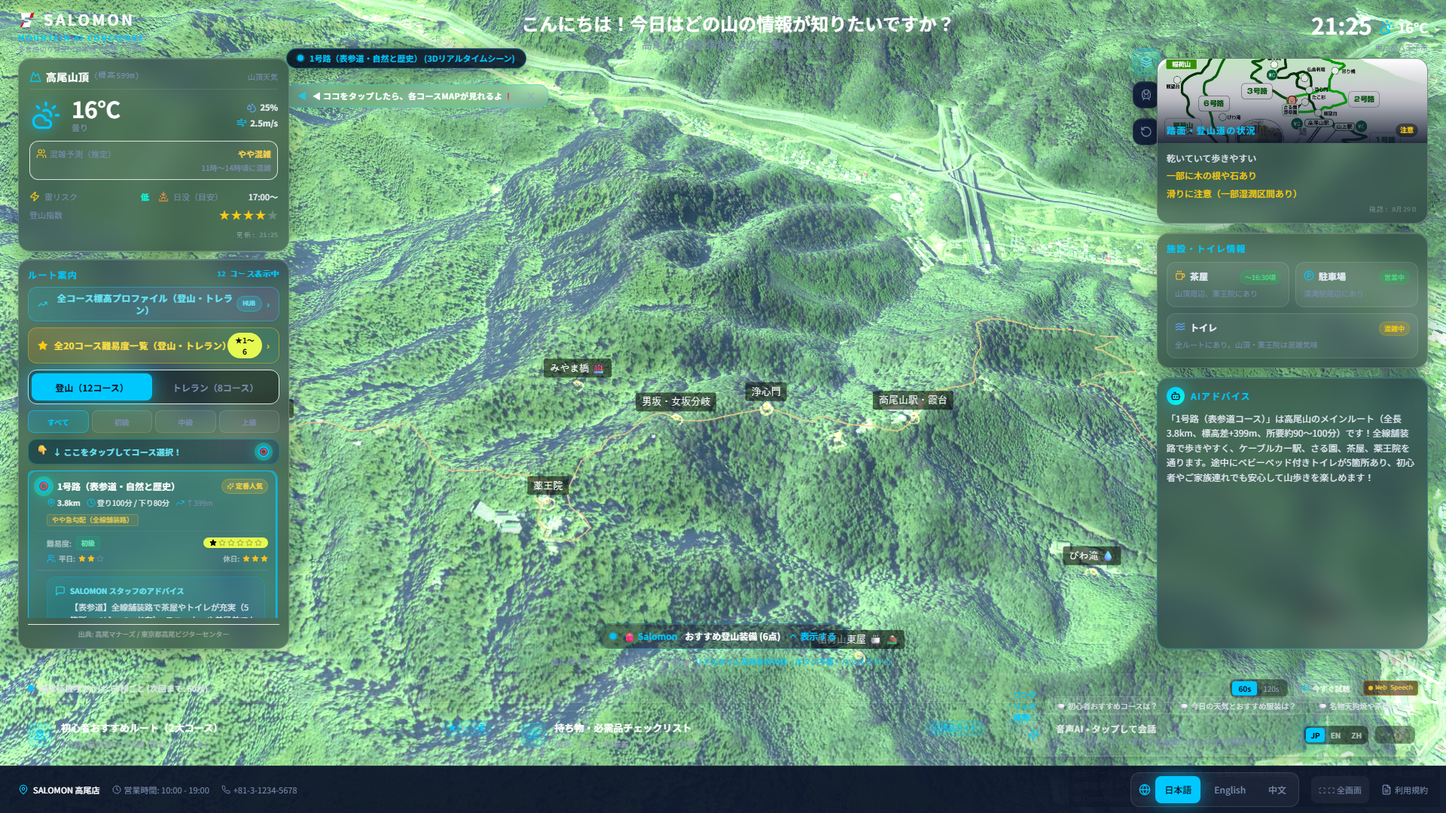
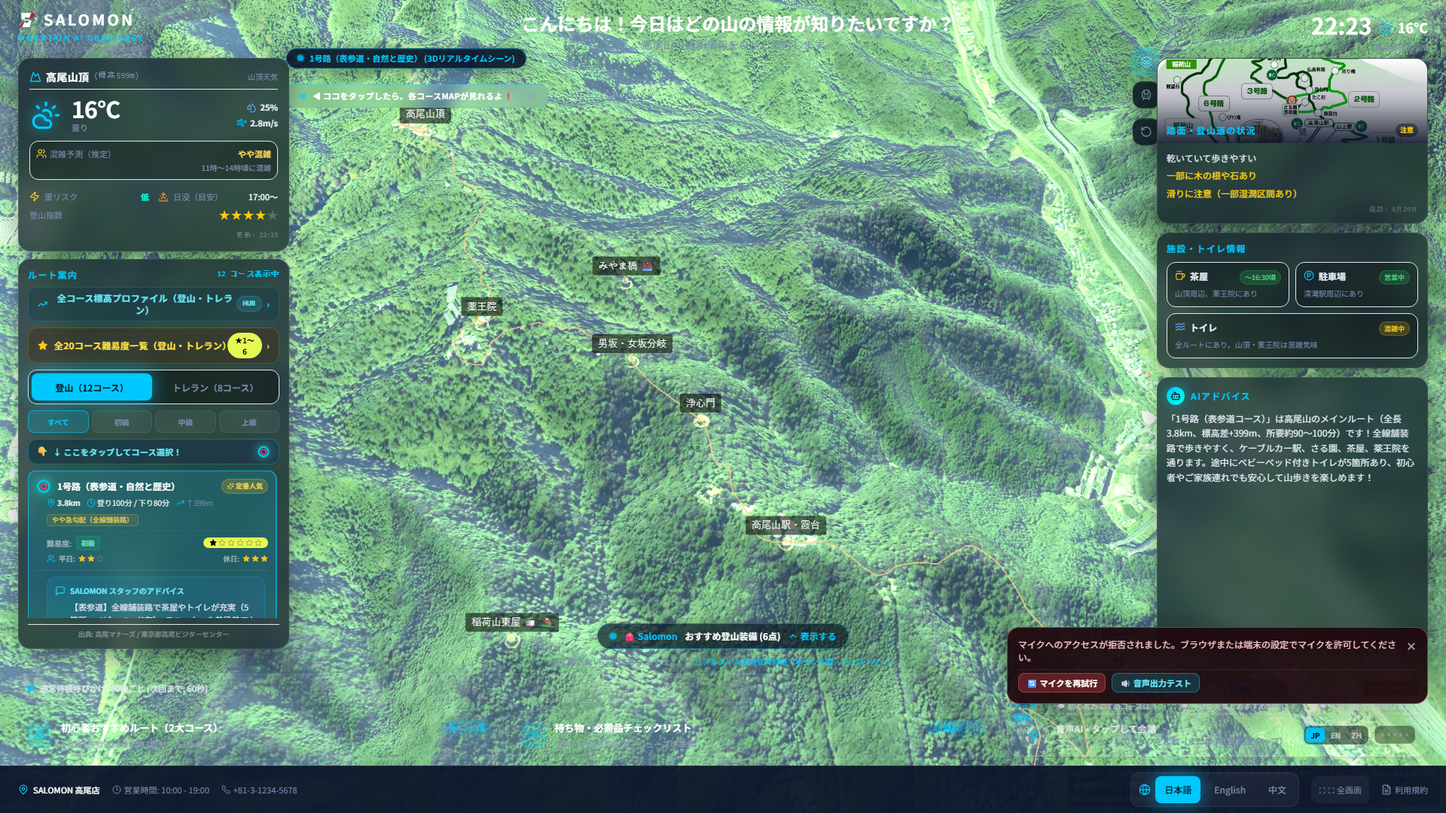
feat(ui): adjust card background and borders to deep slate-forest translucent blend matching kiosk screen display

diff --git a/src/components/RoutePanel.tsx b/src/components/RoutePanel.tsx
@@ -104,7 +104,7 @@ export function RoutePanel() {
       {/* Client Requirement [29/09/2026 06:38]: 標高プロファイルを全コース一気に見られるカード (TAKAO TRAIL HUB) */}
       <button
         onClick={() => setActiveModal('elevation')}
-        className="w-full py-1.5 px-3 rounded-xl bg-gradient-to-r from-cyan-500/20 via-blue-500/15 to-purple-500/15 border border-cyan-400/40 hover:border-cyan-400 text-cyan-300 hover:text-white flex items-center justify-between transition-all duration-200 shadow-sm group active:scale-[0.99]"
+        className="w-full py-1.5 px-3 rounded-xl bg-cyan-950/30 border border-cyan-400/20 hover:border-cyan-400/40 text-cyan-300 hover:text-white flex items-center justify-between transition-all duration-200 shadow-sm group active:scale-[0.99]"
       >
         <div className="flex items-center gap-2">
           <TrendingUp className="w-3.5 h-3.5 text-cyan-400 group-hover:scale-110 transition-transform" />
@@ -113,7 +113,7 @@ export function RoutePanel() {
           </span>
         </div>
         <div className="flex items-center gap-1.5">
-          <span className="text-[10px] px-2 py-0.5 rounded-full bg-cyan-400/20 text-cyan-300 border border-cyan-400/40 font-black font-mono">
+          <span className="text-[10px] px-2 py-0.5 rounded-full bg-cyan-400/15 text-cyan-300 border border-cyan-400/25 font-black font-mono">
             HUB
           </span>
           <span className="text-xs text-cyan-400 font-bold group-hover:translate-x-0.5 transition-transform">›</span>
@@ -123,7 +123,7 @@ export function RoutePanel() {
       {/* Quick 20-Course Difficulty Modal Button (登山・トレラン) */}
       <button
         onClick={() => setActiveModal('difficulty')}
-        className="w-full py-1.5 px-3 rounded-xl bg-gradient-to-r from-amber-500/20 via-yellow-400/15 to-emerald-500/15 border border-yellow-400/40 hover:border-yellow-400 text-yellow-300 hover:text-white flex items-center justify-between transition-all duration-200 shadow-sm group active:scale-[0.99]"
+        className="w-full py-1.5 px-3 rounded-xl bg-amber-950/30 border border-yellow-400/20 hover:border-yellow-400/40 text-yellow-300 hover:text-white flex items-center justify-between transition-all duration-200 shadow-sm group active:scale-[0.99]"
       >
         <div className="flex items-center gap-2">
           <Star className="w-3.5 h-3.5 fill-yellow-400 text-yellow-400 group-hover:scale-110 transition-transform" />
@@ -224,8 +224,8 @@ export function RoutePanel() {
               onClick={() => handleSelectRoute(rawRoute)}
               className={`p-2.5 rounded-xl border transition-all duration-200 cursor-pointer relative ${
                 isSelected
-                  ? 'bg-salomon-cyan/15 border-salomon-cyan shadow-glow-cyan/50 ring-2 ring-salomon-cyan/60'
-                  : 'bg-white/5 border-salomon-border hover:border-salomon-cyan/40 hover:bg-white/8 active:scale-[0.99]'
+                  ? 'bg-salomon-cyan/20 border-salomon-cyan/70 shadow-glow-cyan/40 ring-1 ring-salomon-cyan/50'
+                  : 'bg-black/25 border-white/6 hover:border-salomon-cyan/30 hover:bg-black/35 active:scale-[0.99]'
               }`}
             >
               {/* Route Title & Badges */}

diff --git a/src/components/ProductCarousel.tsx b/src/components/ProductCarousel.tsx
@@ -109,8 +109,8 @@ export function ProductCarousel() {
           {/* Client Auto-Hide / Manual Hide Button */}
           <button
             onClick={() => setIsCollapsed(true)}
-            className="flex items-center gap-1 px-2.5 py-1 rounded-full bg-white/8 hover:bg-white/15
-                       border border-salomon-border text-[11px] font-bold text-salomon-muted hover:text-white
+            className="flex items-center gap-1 px-2.5 py-1 rounded-full bg-black/25 hover:bg-black/40
+                       border border-white/8 text-[11px] font-bold text-salomon-muted hover:text-white
                        transition-colors active:scale-95 ml-1 cursor-pointer"
             title="下に隠す"
           >
@@ -131,7 +131,7 @@ export function ProductCarousel() {
                        flex flex-col items-center gap-2 cursor-pointer
                        animate-fadeInUp opacity-0-start active:scale-95 transition-transform"
             style={{ animationFillMode: 'forwards', animationDelay: `${0.4 + i * 0.07}s` }}>
-            <div className="w-full h-24 md:h-20 rounded-lg overflow-hidden bg-white/5">
+            <div className="w-full h-24 md:h-20 rounded-lg overflow-hidden bg-black/30">
               <img src={product.imageUrl} alt={product.name}
                 className="w-full h-full object-cover hover:scale-110 transition-transform duration-300"
                 onError={e => { (e.target as HTMLImageElement).src = 'https://placehold.co/135x90/0D1529/7B8DB0?text=S'; }}
@@ -155,7 +155,7 @@ export function ProductCarousel() {
                         transition-all duration-200 min-h-[32px] active:scale-95 ${
               activeFilter === f.value
                 ? 'bg-salomon-cyan text-salomon-black shadow-glow-cyan'
-                : 'bg-white/8 text-salomon-muted border border-salomon-border hover:text-white hover:border-salomon-cyan/40'
+                : 'bg-black/25 text-salomon-muted border border-white/8 hover:text-white hover:border-salomon-cyan/40'
             }`}>
             {f.label}
           </button>

diff --git a/src/app/globals.css b/src/app/globals.css
@@ -13,22 +13,22 @@
 }
 
 @layer components {
-  /* ── Clear Glassmorphism card (matching Image 2 & client feedback) ───── */
+  /* ── Deep Slate-Forest Glass Card (matches Kiosk Screen Display) ───── */
   .glass-card {
     @apply rounded-2xl;
-    background: rgba(6, 14, 30, 0.48);
-    backdrop-filter: blur(18px);
-    -webkit-backdrop-filter: blur(18px);
-    border: 1px solid rgba(255, 255, 255, 0.18);
-    box-shadow: 0 8px 32px rgba(0, 0, 0, 0.30), inset 0 1px 0 rgba(255, 255, 255, 0.14);
+    background: linear-gradient(145deg, rgba(14, 28, 38, 0.74) 0%, rgba(9, 20, 28, 0.68) 100%);
+    backdrop-filter: blur(16px);
+    -webkit-backdrop-filter: blur(16px);
+    border: 1px solid rgba(255, 255, 255, 0.08);
+    box-shadow: 0 12px 36px -4px rgba(0, 0, 0, 0.45);
   }
   .glass-card-hover {
     @apply glass-card transition-all duration-300 cursor-pointer;
   }
   .glass-card-hover:hover {
-    border-color: rgba(0, 200, 255, 0.5);
-    background: rgba(8, 18, 40, 0.58);
-    box-shadow: 0 8px 40px rgba(0, 0, 0, 0.45), 0 0 0 1px rgba(0, 200, 255, 0.2), inset 0 1px 0 rgba(255, 255, 255, 0.18);
+    border-color: rgba(0, 200, 255, 0.35);
+    background: linear-gradient(145deg, rgba(18, 36, 48, 0.82) 0%, rgba(12, 26, 36, 0.78) 100%);
+    box-shadow: 0 16px 44px rgba(0, 0, 0, 0.55), 0 0 0 1px rgba(0, 200, 255, 0.18);
     transform: translateY(-1px);
   }
 

diff --git a/src/components/RightPanel.tsx b/src/components/RightPanel.tsx
@@ -93,7 +93,7 @@ export function RightPanel() {
             return (
               <div
                 key={f.id}
-                className={`bg-white/5 rounded-xl p-2.5 border border-salomon-border flex flex-col justify-between gap-1.5 ${isFullWidth ? 'col-span-2' : ''}`}
+                className={`bg-black/25 rounded-xl p-2.5 border border-white/6 flex flex-col justify-between gap-1.5 ${isFullWidth ? 'col-span-2' : ''}`}
               >
                 <div className="flex items-start justify-between gap-1 flex-wrap">
                   <div className="flex items-center gap-1.5 min-w-0">
@@ -123,7 +123,7 @@ export function RightPanel() {
       </div>
 
       {/* Zone ⑦ AI Advice */}
-      <div className="glass-card p-3 border-salomon-cyan/30 flex-1 min-h-0 flex flex-col animate-fadeInRight opacity-0-start relative overflow-hidden" style={{ animationFillMode: 'forwards', animationDelay: '0.4s' }}>
+      <div className="glass-card p-3 flex-1 min-h-0 flex flex-col animate-fadeInRight opacity-0-start relative overflow-hidden" style={{ animationFillMode: 'forwards', animationDelay: '0.4s' }}>
         {/* Subtle glow */}
         <div className="absolute top-0 right-0 w-24 h-24 bg-salomon-cyan/5 rounded-full blur-2xl pointer-events-none" />
 

diff --git a/src/components/WeatherPanel.tsx b/src/components/WeatherPanel.tsx
@@ -112,7 +112,7 @@ export function WeatherPanel() {
          style={{ animationFillMode: 'forwards', animationDelay: '0.15s' }}>
       
       {/* Mountain Header */}
-      <div className="flex items-center justify-between pb-1.5 border-b border-white/10">
+      <div className="flex items-center justify-between pb-1.5 border-b border-white/6">
         <div className="flex items-center gap-1.5">
           <Mountain className="w-4 h-4 text-salomon-cyan" />
           <span className="text-sm font-bold text-white tracking-wide">{t('weather.mountain')}</span>
@@ -173,7 +173,7 @@ export function WeatherPanel() {
       </div>
 
       {/* Crowd forecast card — rule-based estimate, labeled as such */}
-      <div className="bg-white/5 rounded-xl p-2 border border-salomon-border/80">
+      <div className="bg-black/25 rounded-xl p-2 border border-white/6">
         <div className="flex items-center justify-between text-[11px]">
           <div className="flex items-center gap-1 text-salomon-muted">
             <Users className="w-3.5 h-3.5 text-amber-400" />

diff --git a/tailwind.config.ts b/tailwind.config.ts
@@ -10,9 +10,9 @@ const config: Config = {
           black:  '#0A0E1A',
           dark:   '#0D1529',
           navy:   '#111D3A',
-          card:   'rgba(10,20,50,0.72)',
-          glass:  'rgba(255,255,255,0.06)',
-          border: 'rgba(255,255,255,0.12)',
+          card:   'rgba(12,26,36,0.72)',
+          glass:  'rgba(255,255,255,0.04)',
+          border: 'rgba(255,255,255,0.08)',
           cyan:   '#00C8FF',
           teal:   '#0AFFE0',
           gold:   '#FFD966',
